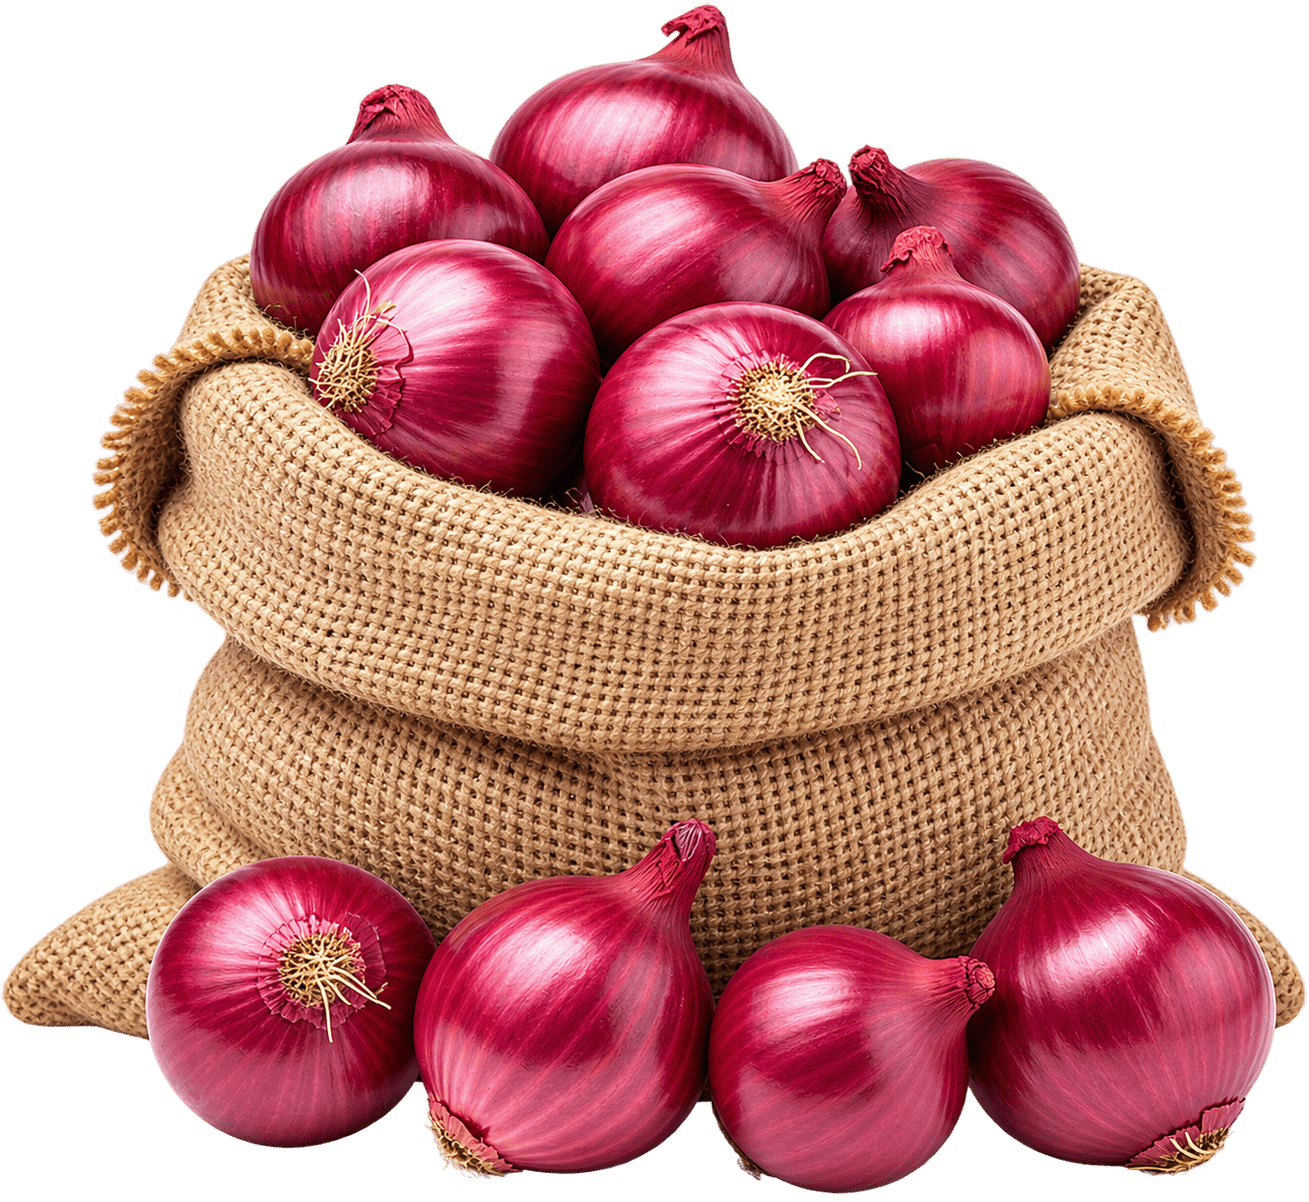
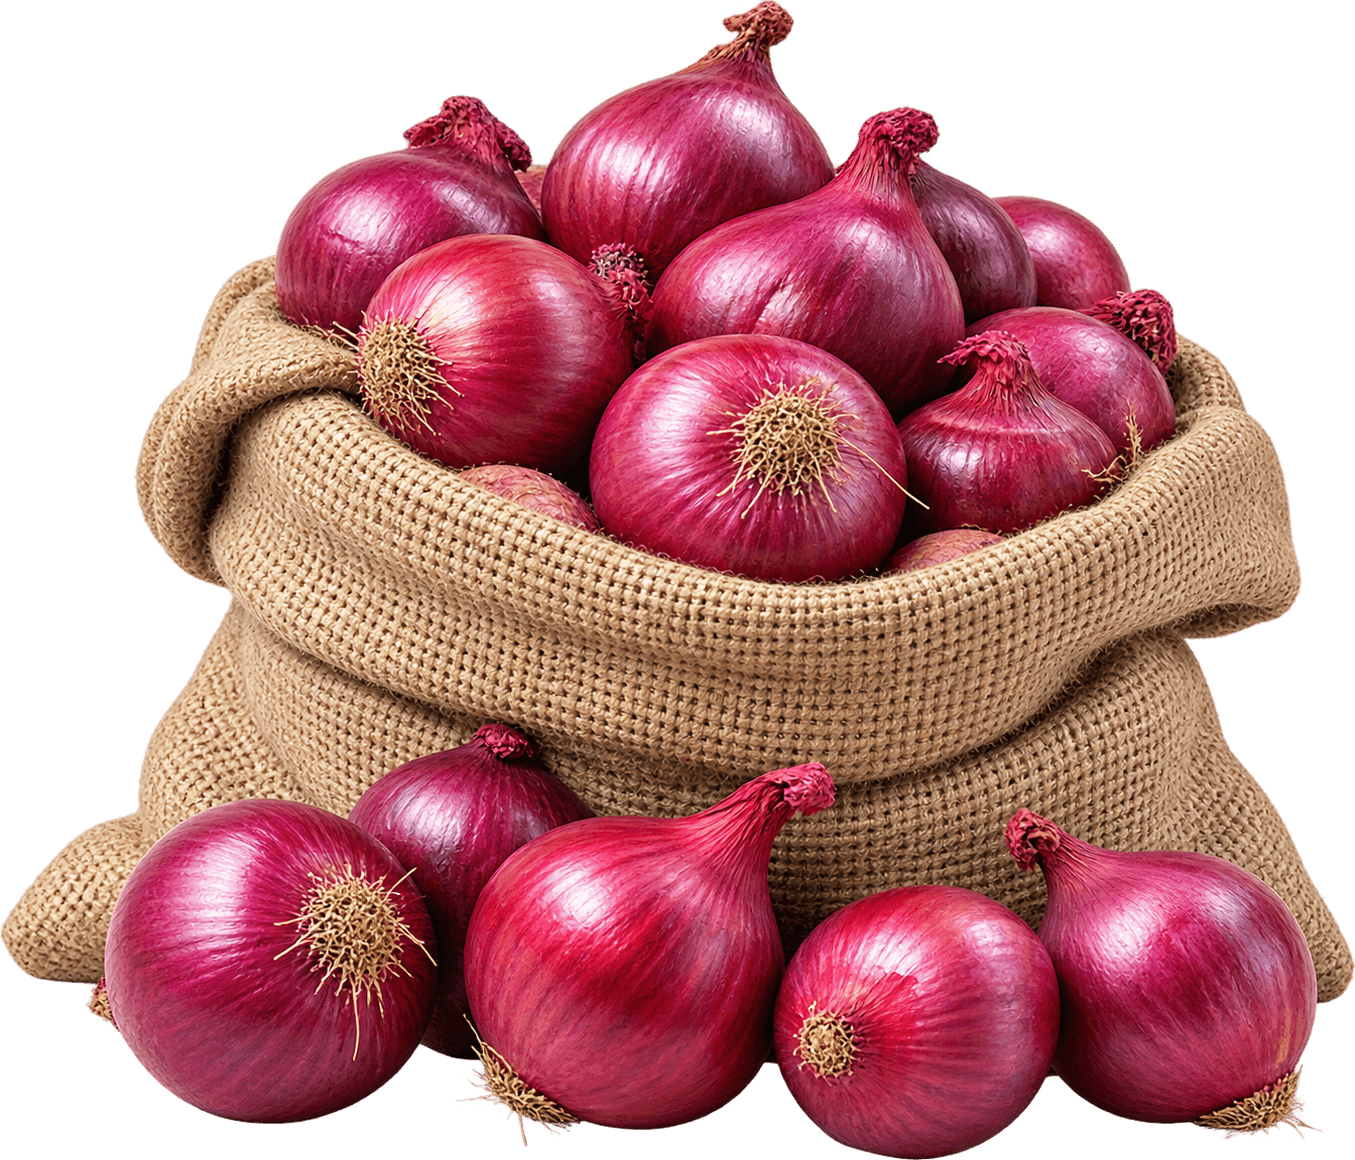
feat: implement product section with GSAP scroll-triggered animations and add supporting assets

diff --git a/components/home/product-section.tsx b/components/home/product-section.tsx
@@ -30,7 +30,7 @@ const PRODUCTS: ProductItem[] = [
     id: "onions",
     name: "Farm-Fresh Red Onions",
     watermark: "ONIONS",
-    image: "/images/Onion.png",
+    image: "/images/onion.png",
     description:
       "Sourced directly from trusted farms, our premium red onions feature firm texture and uniform size. Perfectly cured for minimal weight loss and long shelf life, making them ideal for restaurants, caterers, and retail resellers in 25kg and 50kg bulk bags.",
     accentBg: "from-red-500/10 via-amber-500/5 to-transparent",
